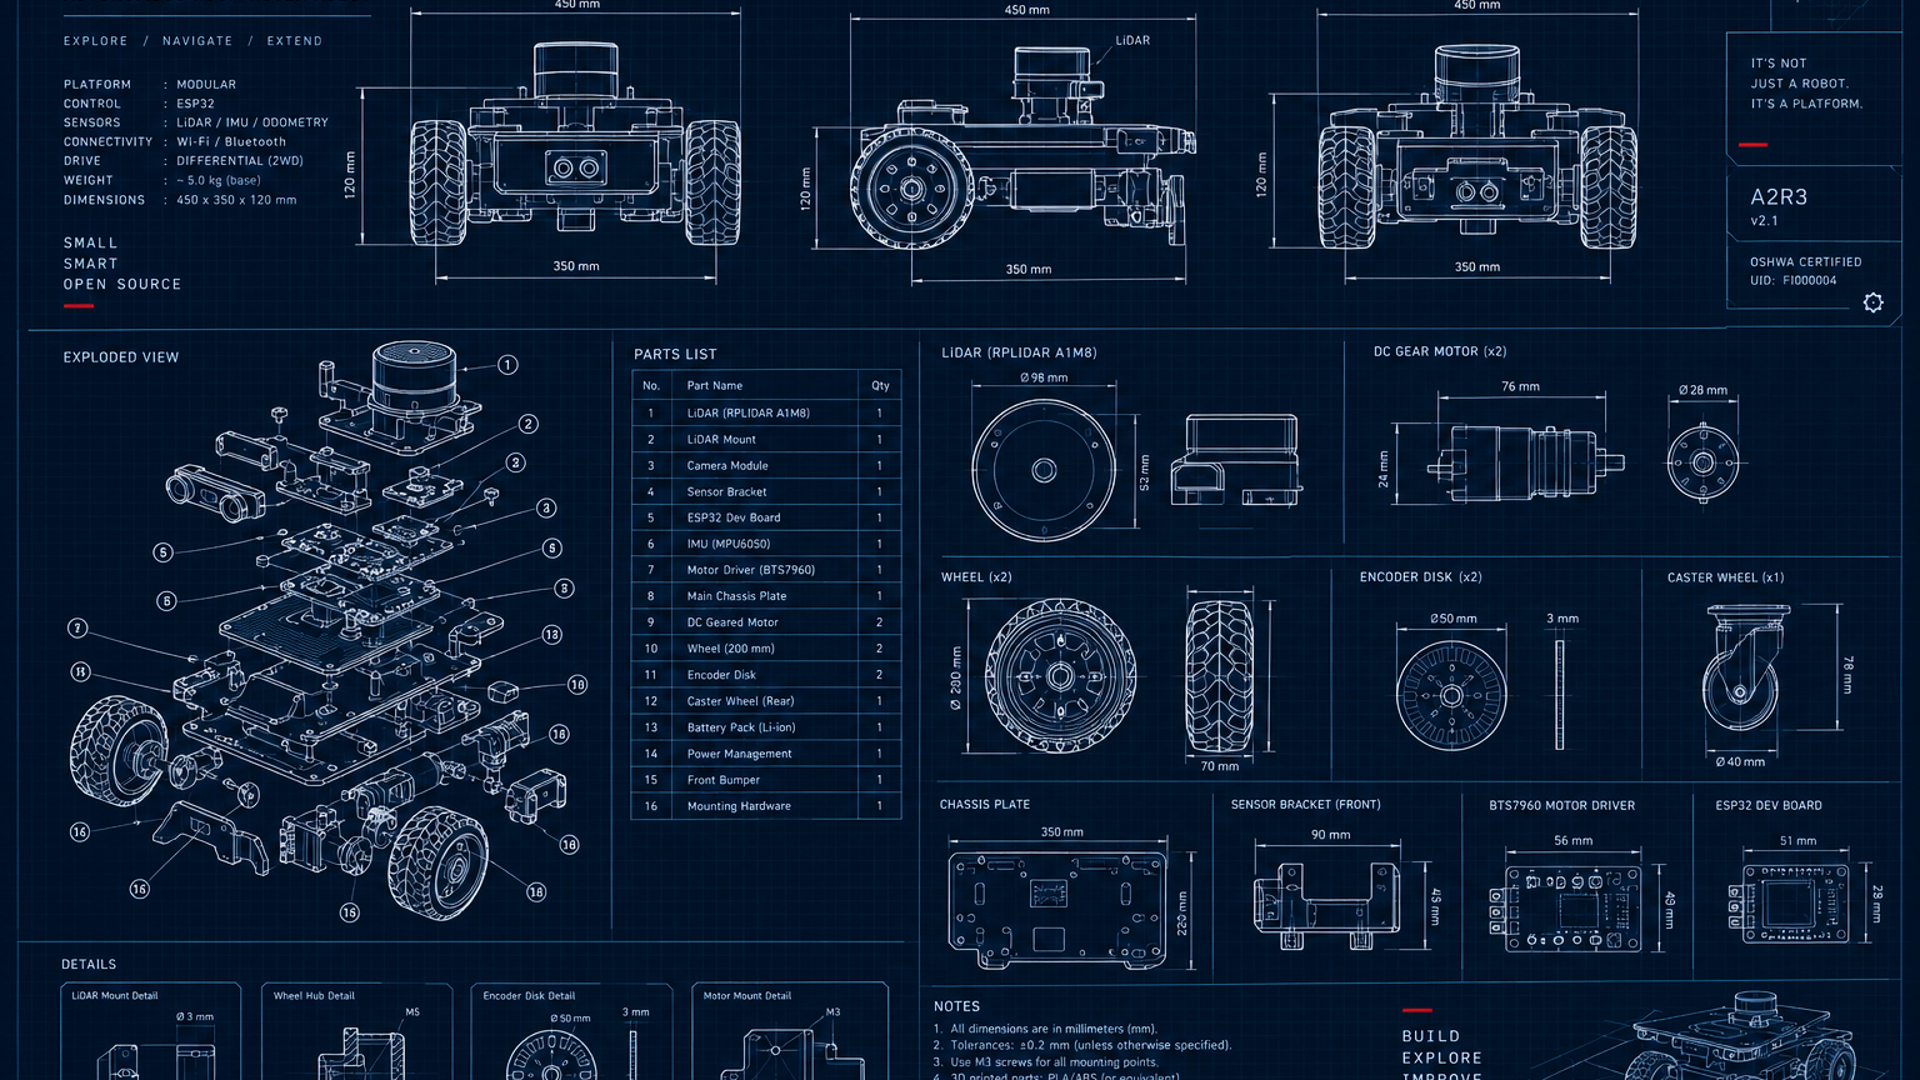
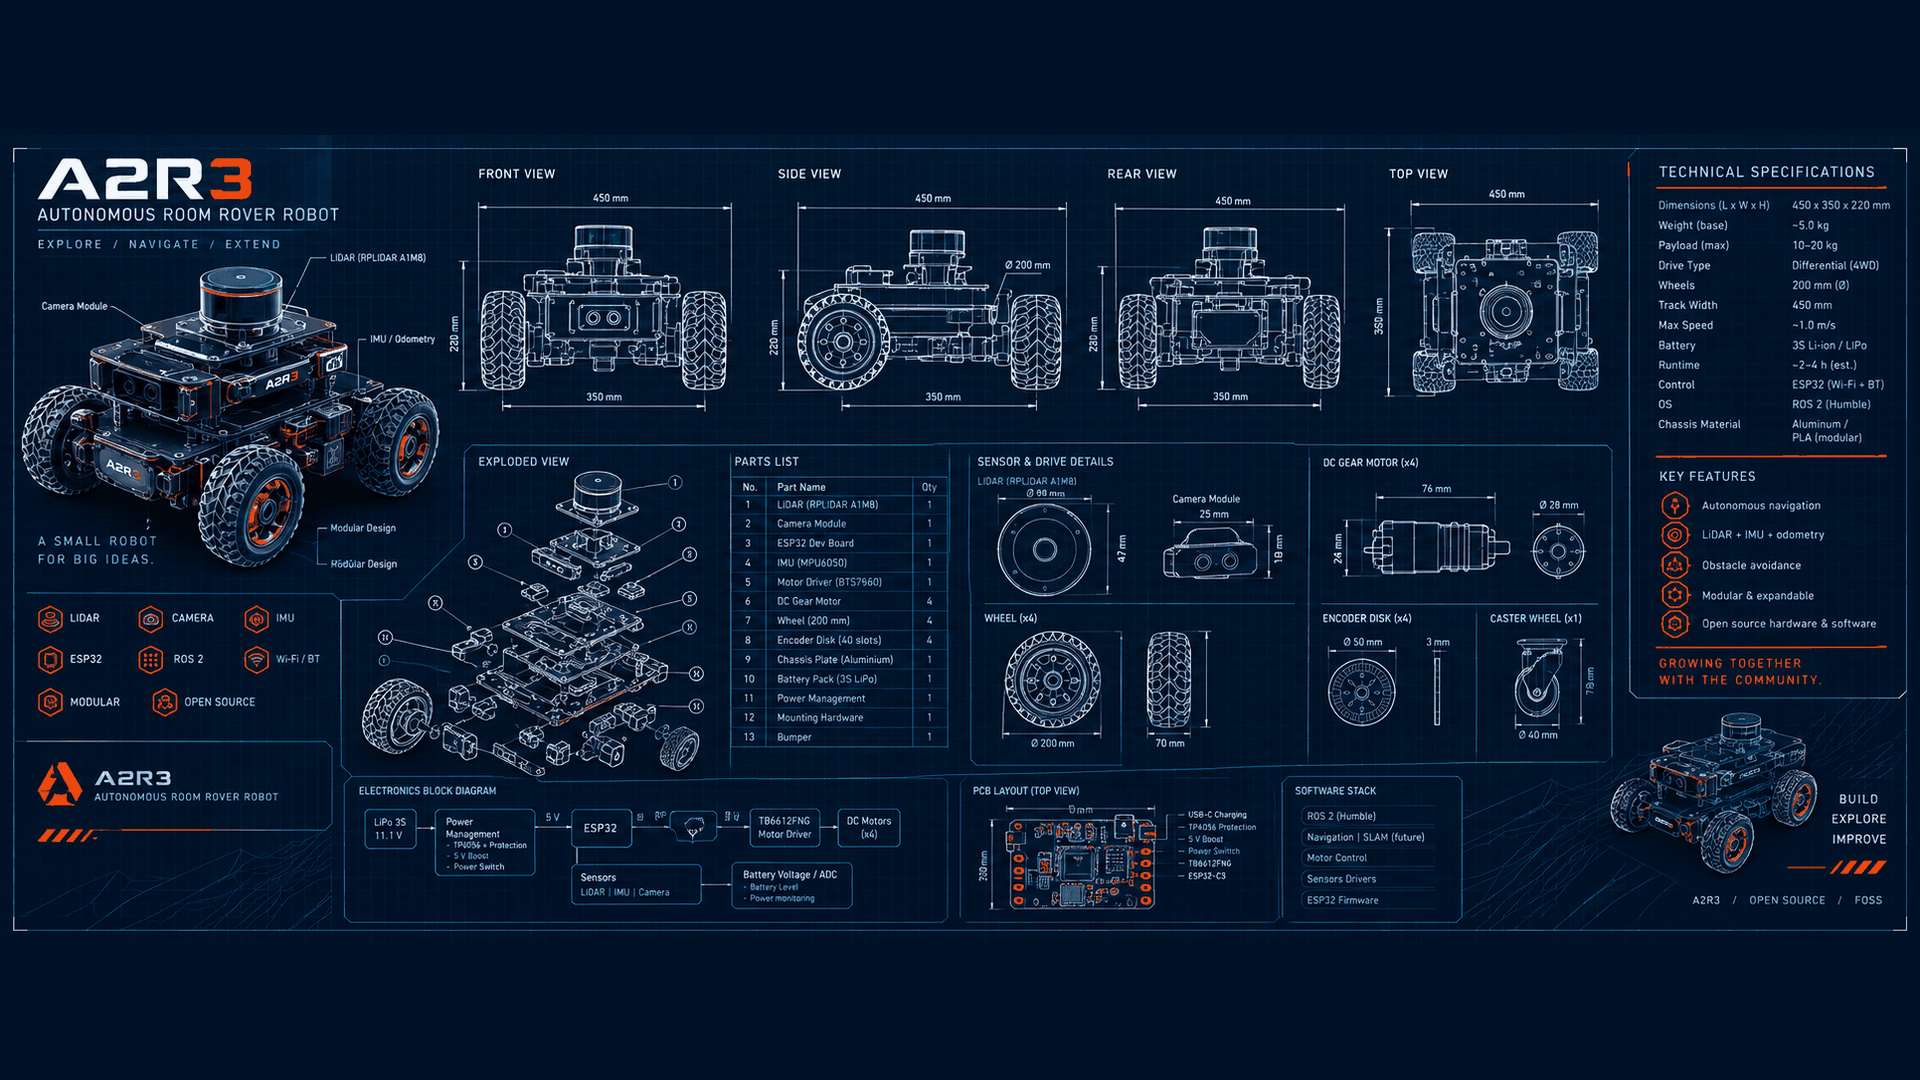
Add files via upload

diff --git a/README.md b/README.md
@@ -1,5 +1,3 @@
-
-
 # A2R3 Blueprint
 
 **An Omarchy theme drawn straight from an engineering blueprint.** Deep navy, pure white text, one red accent.
@@ -9,25 +7,13 @@
 ![Text](https://img.shields.io/badge/text-%23ffffff-ffffff?style=for-the-badge&labelColor=001127)
 ![Accent](https://img.shields.io/badge/accent-%23e0283c-e0283c?style=for-the-badge)
 
-<!-- ![A2R3 Blueprint preview](preview.png) -->
-<table>
-  <tr>
-    <td><img width="100%" height="50%" alt="a2r3" src="https://github.com/user-attachments/assets/1987b7a0-e1a2-4101-90c1-ac49065d6d80" /></td>
-    <td><img width="100%" height="50%" alt="screenshot-2026-09-30_08-51-56" src="https://github.com/user-attachments/assets/09fc3b6c-b87a-40fd-83f6-c698576f827f" /></td>
-  </tr>
+![A2R3 Blueprint preview](preview.png)
 
-   <tr>
-    <td><img width="100%" height="100%" alt="1-a2r3-blueprint" src="https://github.com/user-attachments/assets/f201550e-48e0-4962-a068-cd16b8a30c7a" />
-    
-</td>
-    <td><img width="100%" height="100%" alt="2-a2r3-blueprint" src="https://github.com/user-attachments/assets/e01f7b46-8c92-438a-858e-a2f6ec905ca7" /></td>
-  </tr>
-
-</table>
+> Small. Smart. Open source.
 
 ## Why this exists
 
-Most dark themes are grey, or a little too colorful. This one is a rover blueprint: a navy sheet, crisp white linework, and a single red mark. The background color was sampled from the A2R3 (Autonomous Room Rover Robot) spec sheet, and the accent comes from the red **3** in its logo.
+Most dark themes are grey, or a little too colorful. This one is a rover blueprint: a navy sheet, crisp white linework, and a single red mark. The background color was sampled from the A2R3 (Autonomous Room Rover Robot) spec sheet, and the accent is the red from its logo.
 
 Terminals, shells and TUI apps use the same navy and white as the wallpaper, so text reads like drafting-table annotation and nothing distracts from the code.
 
@@ -57,7 +43,7 @@ omarchy-theme-set "a2r3-blueprint"
 | Selection  | `#1c3d66` |
 | Muted      | `#3f6390` |
 
-The 16-color ANSI palette keeps white in both the `white` and `bright white` slots, so default text in the shell and TUIs stays white. The remaining slots are cool blues plus soft green, amber and violet, used only where an app colors things itself, such as git status or btop graphs.
+The terminal palette is white-first: every ANSI color slot except red and the dim black slots is white, so shell and TUI text stays white. Red is kept for errors and the accent.
 
 ## What's themed
 
@@ -65,31 +51,47 @@ The 16-color ANSI palette keeps white in both the `white` and `bright white` slo
 - **TUI:** btop, Neovim (tokyonight, recolored to match)
 - **Desktop:** Hyprland borders, Hyprlock, Waybar, Walker, Mako, SwayOSD
 - **Browser:** Chromium
-- **Wallpaper:** the original A2R3 blueprint sheet, in `backgrounds/`
+- **Wallpapers:** five in `backgrounds/`: the full A2R3 blueprint sheet (2560x1080) plus four blueprint-grid and dot-grid wallpapers in 16:9 (3840x2160) and 21:9 (3440x1440). Cycle them with `Super + Ctrl + Space`.
 
-## Make it fully monochrome
+## Transparency
 
-Want everything white with no color at all? Run this in the theme folder:
+Terminals, shells and TUIs are set to 75% opacity. btop and Neovim draw no background of their own, so the terminal's transparency shows through.
 
-```bash
-cd ~/.config/omarchy/themes/a2r3-blueprint
-sed -i -E 's/(6fc3df|9fe0f2|4a90d9|7ab8f5|4fd1a5|7ff0c8|f0c674|ffd98a|b58cf0|cfa8ff|ff5568)/ffffff/gI' *.conf *.toml *.theme *.css *.lua
-omarchy-theme-set "a2r3-blueprint"
+To change the level, edit the opacity line in `alacritty.toml`, `kitty.conf` or `ghostty.conf` (`0.75` is the default, lower is more transparent).
+
+If your terminal doesn't pick it up, your own terminal config is overriding the theme. Set it there instead:
+
+| Terminal | Setting |
+| --- | --- |
+| Alacritty | `[window]` then `opacity = 0.75` |
+| Kitty | `background_opacity 0.75` |
+| Ghostty | `background-opacity = 0.75` |
+
+For transparency on every window, including browsers and GUI apps, add a Hyprland window rule to `~/.config/hypr/hyprland.conf`. Use the line that matches your Hyprland version:
+
+```ini
+# newer Hyprland
+windowrule = opacity 0.85 0.75, match:class .*
+
+# older Hyprland
+windowrulev2 = opacity 0.85 0.75, class:.*
 ```
+
+The first number is the opacity for the focused window and the second for unfocused windows.
 
 ## Repo layout
 
 ```text
 .
 ├── colors.toml        # palette Omarchy generates app themes from
-├── backgrounds/       # wallpaper(s)
+├── backgrounds/       # wallpapers (16:9 and 21:9)
 ├── preview.png        # 16:9 preview
 └── *.toml/.conf/.css  # per-app overrides
 ```
 
 ## Credits
 
-- Wallpaper: A2R3 blueprint concept sheet, AI-generated artwork.
+- Wallpaper 1: A2R3 blueprint sheet (orange-accent variant), AI-generated artwork, scaled to 2560x1080. Wallpapers 2 to 5 are generated grids released under the same license.
 - Built for [Omarchy](https://github.com/omacom/omarchy).
 
 ## License
